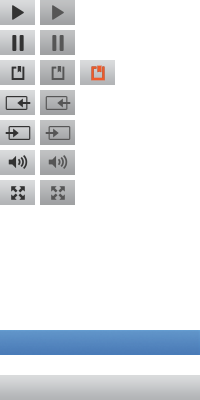
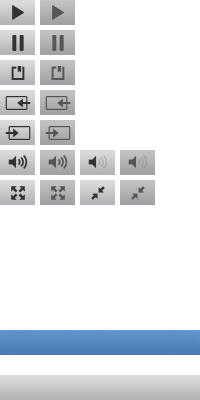
Show Mute, Show normal screen button, full screen window resize

Changed region(s): [[0.39, 0.36, 0.78, 0.51], [0.39, 0.15, 0.6, 0.21]]

diff --git a/js/llc-player.js b/js/llc-player.js
@@ -644,17 +644,19 @@ if (typeof item === "undefined"){
 			$("#master_jp_container").appendTo(".playerFrameFull");
 			
 			// Probably don't need from here...
-			var w = $(document).width(),
-				ww = $(document).width(),
-				h = $(document).height(),
-				wh = $(window).height();
-			
-			//console.log(w,ww,h,wh);
-			
-			$("#master_jp_container .jp-progress").width(w-217);
-			// ...to here as we can achive via CSS
+			$(window).resize(function() {
+				var w = $(document).width();
+				$("#master_jp_container .jp-progress").width(w-217);
+				console.log('resized');
+			});
+			$(window).trigger('resize');
+			// ...to here as we can achieve via CSS
 			
 			if (llc.switchFull.playing) $("#master_jplayer").jPlayer("play");
+			
+			$("#master_jplayer").next().find('a.llc-full').addClass('active');
+			
+			console.log($("#master_jplayer"));
 			
 		
 		} else if (val==false) {
@@ -678,7 +680,11 @@ if (typeof item === "undefined"){
 			$("#master_jp_container .jp-progress").attr("style",'');
 			$(".playerFrameFull").remove();
 			
+			$(window).unbind('resize');
+			
 			if (llc.switchFull.playing) $("#master_jplayer").jPlayer("play");
+			
+			$("#master_jplayer").next().find('a.llc-full').removeClass('active');
 		}
 		 
 	},
@@ -756,12 +762,14 @@ if (typeof item === "undefined"){
 				    	llc.timeUpdate(event);   	
 				    },
 				    volumechange: function(event) { // make sure volume dragable moves on click
-				    	var t = $("#master_jp_container div.jp-volume div.jp-volume-bar-value"),
+				    	var t = $(this).next().find("div.jp-volume-bar-value"),
 				    		bottom = t.height(),
 				    		height = t.parent().height(),
 				    		top = height-bottom;
 				    	t.prev().css("top",top);	
 				    	llc.perVolume = t.attr('style').slice(8,-3) / 100;
+				    	if (llc.perVolume == 0) t.parents('div.jp-volume').addClass('mute');
+				    	else t.parents('div.jp-volume').removeClass('mute');
 				    },
 				    verticalVolume: true,
 				    swfPath: "js",

diff --git a/css/llc.skin/jplayer.llc.css b/css/llc.skin/jplayer.llc.css
@@ -211,6 +211,12 @@ a.llc-full {
 a.llc-full:hover {
  background: url("jplayer.llc.png") -40px -180px no-repeat
 }
+a.llc-full.active {
+ background: url("jplayer.llc.png") -80px -180px no-repeat
+}
+a.llc-full.active:hover {
+ background: url("jplayer.llc.png") -120px -180px no-repeat
+}
 /* @end */
 
 /* @group progress bar */
@@ -294,6 +300,12 @@ div.jp-volume {
 }
 div.jp-volume.active {
  background: url("jplayer.llc.png") -40px -150px no-repeat; overflow: visible;
+}
+div.jp-volume.mute {
+ background: url("jplayer.llc.png") -80px -150px no-repeat; position: relative; overflow: hidden; cursor: pointer;
+}
+div.jp-volume.mute.active {
+ background: url("jplayer.llc.png") -120px -150px no-repeat; position: relative; overflow: visible; 
 }
 div.jp-volume-bar {
  position: relative; height: 100%; border: 16px solid #a1a1a1; border-top: none; border-bottom: none; width: 3px; background: #999; bottom: 0px;
